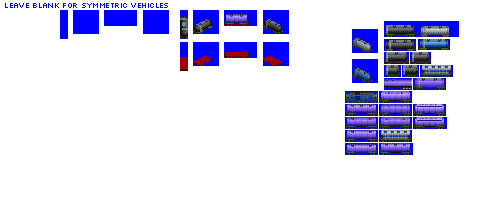
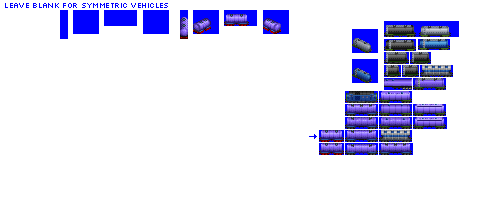
Change: sprites complete for gen 4B tank car

Changed region(s): [[0.36, 0.06, 0.6, 0.36], [0.63, 0.63, 0.69, 0.78], [0.45, 0.06, 0.57, 0.18]]

diff --git a/src/vehicles/tank_cars.py b/src/vehicles/tank_cars.py
@@ -72,7 +72,8 @@ def main():
     consist = TankCarConsist(roster='pony',
                              base_numeric_id=960,
                              gen=4,
-                             subtype='B')
+                             subtype='B',
+                             sprites_complete=True)
 
     consist.add_unit(type=FreightCar,
                      vehicle_length=6,
